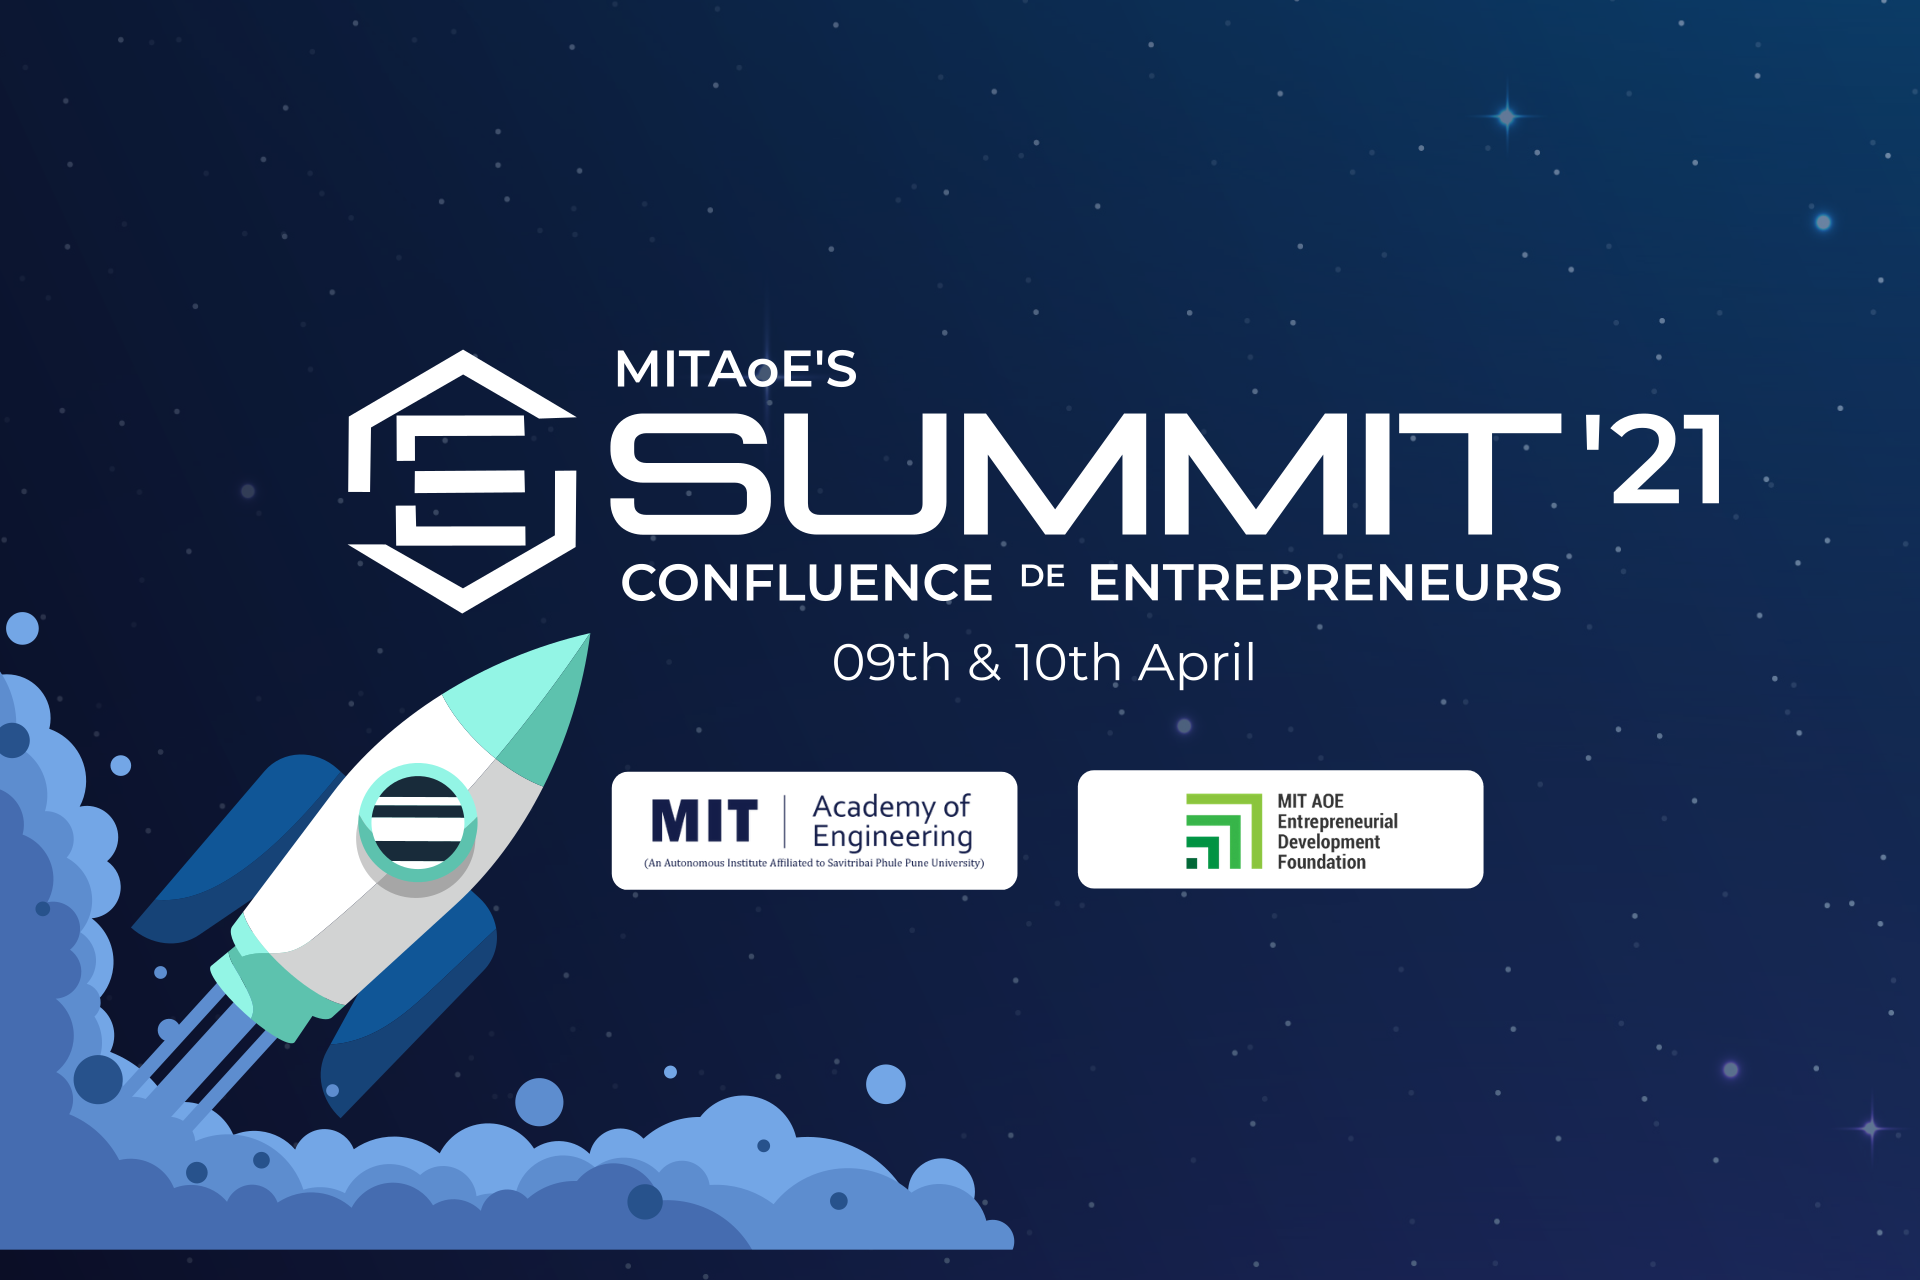
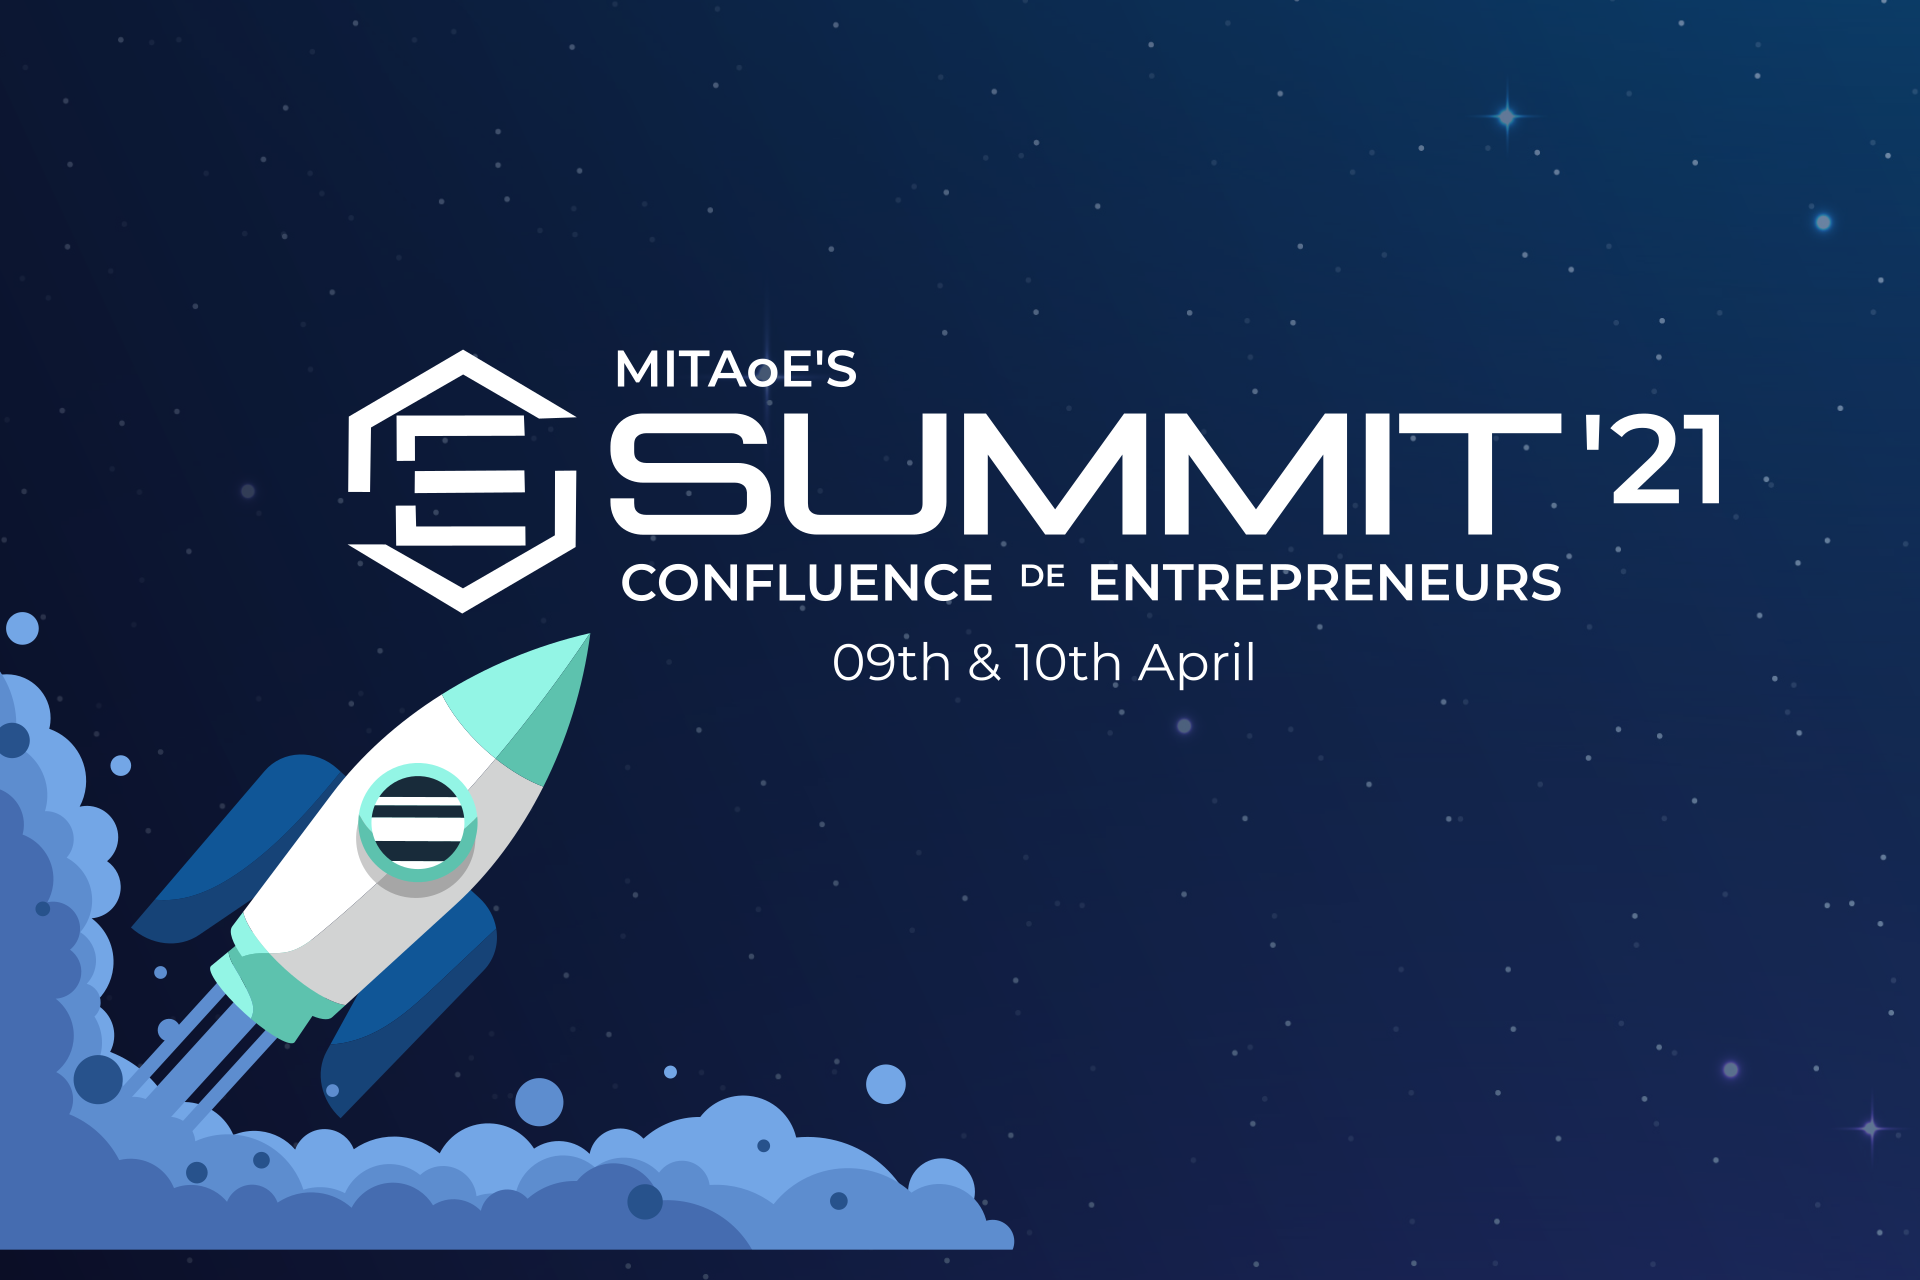
Fixed bg image issue, minor content reaarangements

Changed region(s): [[0.5625, 0.5938, 0.7812, 0.7188], [0.3125, 0.5938, 0.5312, 0.7188]]

diff --git a/index.html b/index.html
@@ -133,7 +133,7 @@
     <section id="about" class="about">
       <div class="container" data-aos="fade-up">
         <h3><b>About E-Summit</b></h3>
-        <div class="row">
+        <div class="row" style="padding: 4px;">
 
 <!--           <div class="col-lg-6 order-1 order-lg-2" data-aos="fade-left" data-aos-delay="100">
             <img src="assets/img/about.jpg" class="img-fluid" alt="">
